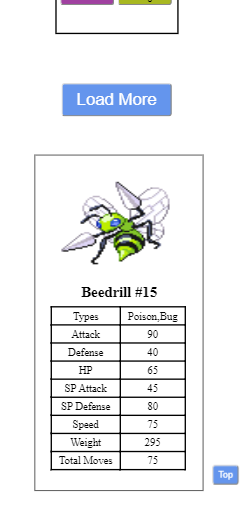
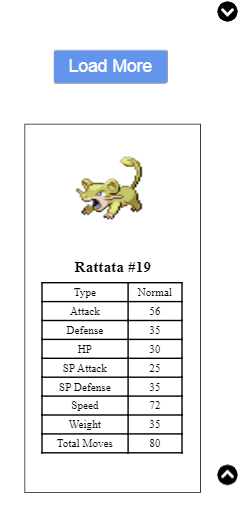
test

Changed region(s): [[0.0871, 0.0, 0.8423, 0.9538], [0.8714, 0.8923, 0.9876, 0.9538], [0.9004, 0.0, 0.9876, 0.0615]]

diff --git a/script.js b/script.js
@@ -132,4 +132,17 @@ $(function () {
     $("#top").click(function () {
         $("html, body").animate({ scrollTop: 0 }, 1000);
     });
+
+    $(window).scroll(function () {
+        if ($(this).scrollTop()) {
+            $('#down').fadeIn();
+        } else {
+            $('#down').fadeOut();
+        }
+    });
+    $("#down").click(function (){
+        $('html, body').animate({
+            scrollTop: $("#more").offset().top
+        }, 2000);
+    });
 });

diff --git a/index.html b/index.html
@@ -20,7 +20,9 @@
     <div id="pokemonContainer"></div>
     <input type="button" value="Load More" id="more">
     <div class="detailsContainer"></div>
-    <input type="button" value="Top" id="top">
+    <img src="img/chevron-circle-up-solid.svg" id="top">
+    <img src="img/chevron-circle-down-solid.svg" id="down">
+
 
     <script src="https://cdnjs.cloudflare.com/ajax/libs/jquery/3.4.1/jquery.min.js"></script>
     <script src="script.js"></script>

diff --git a/style.css b/style.css
@@ -208,13 +208,25 @@ select {
 }
 
 #top {
-    width: 40px;
+    width: 30px;
     height: 30px;
-    background: cornflowerblue;
+
     color: #fff;
     border-radius: 5px;
     position: fixed;
     bottom: 60px;
+    right: 5px;
+    display: none;
+}
+
+#down {
+    width: 30px;
+    height: 30px;
+
+    color: #fff;
+    border-radius: 5px;
+    position: fixed;
+    top: 60px;
     right: 5px;
     display: none;
 }

diff --git a/README.md b/README.md
@@ -25,7 +25,7 @@ So, we get the following result
 
 ![img5](img/img_5.png)
 
-+ To quickly return to the beginning of the page, in the lower right corner there is a button ***'Top'***, when you press the page scroll up
++ To quickly return to the beginning or to the bottom of the page, there are ***'Top'*** and ***'Down'*** buttons on the right side of the page, respectively.
 
 ![img6](img/img_6.png)
 
